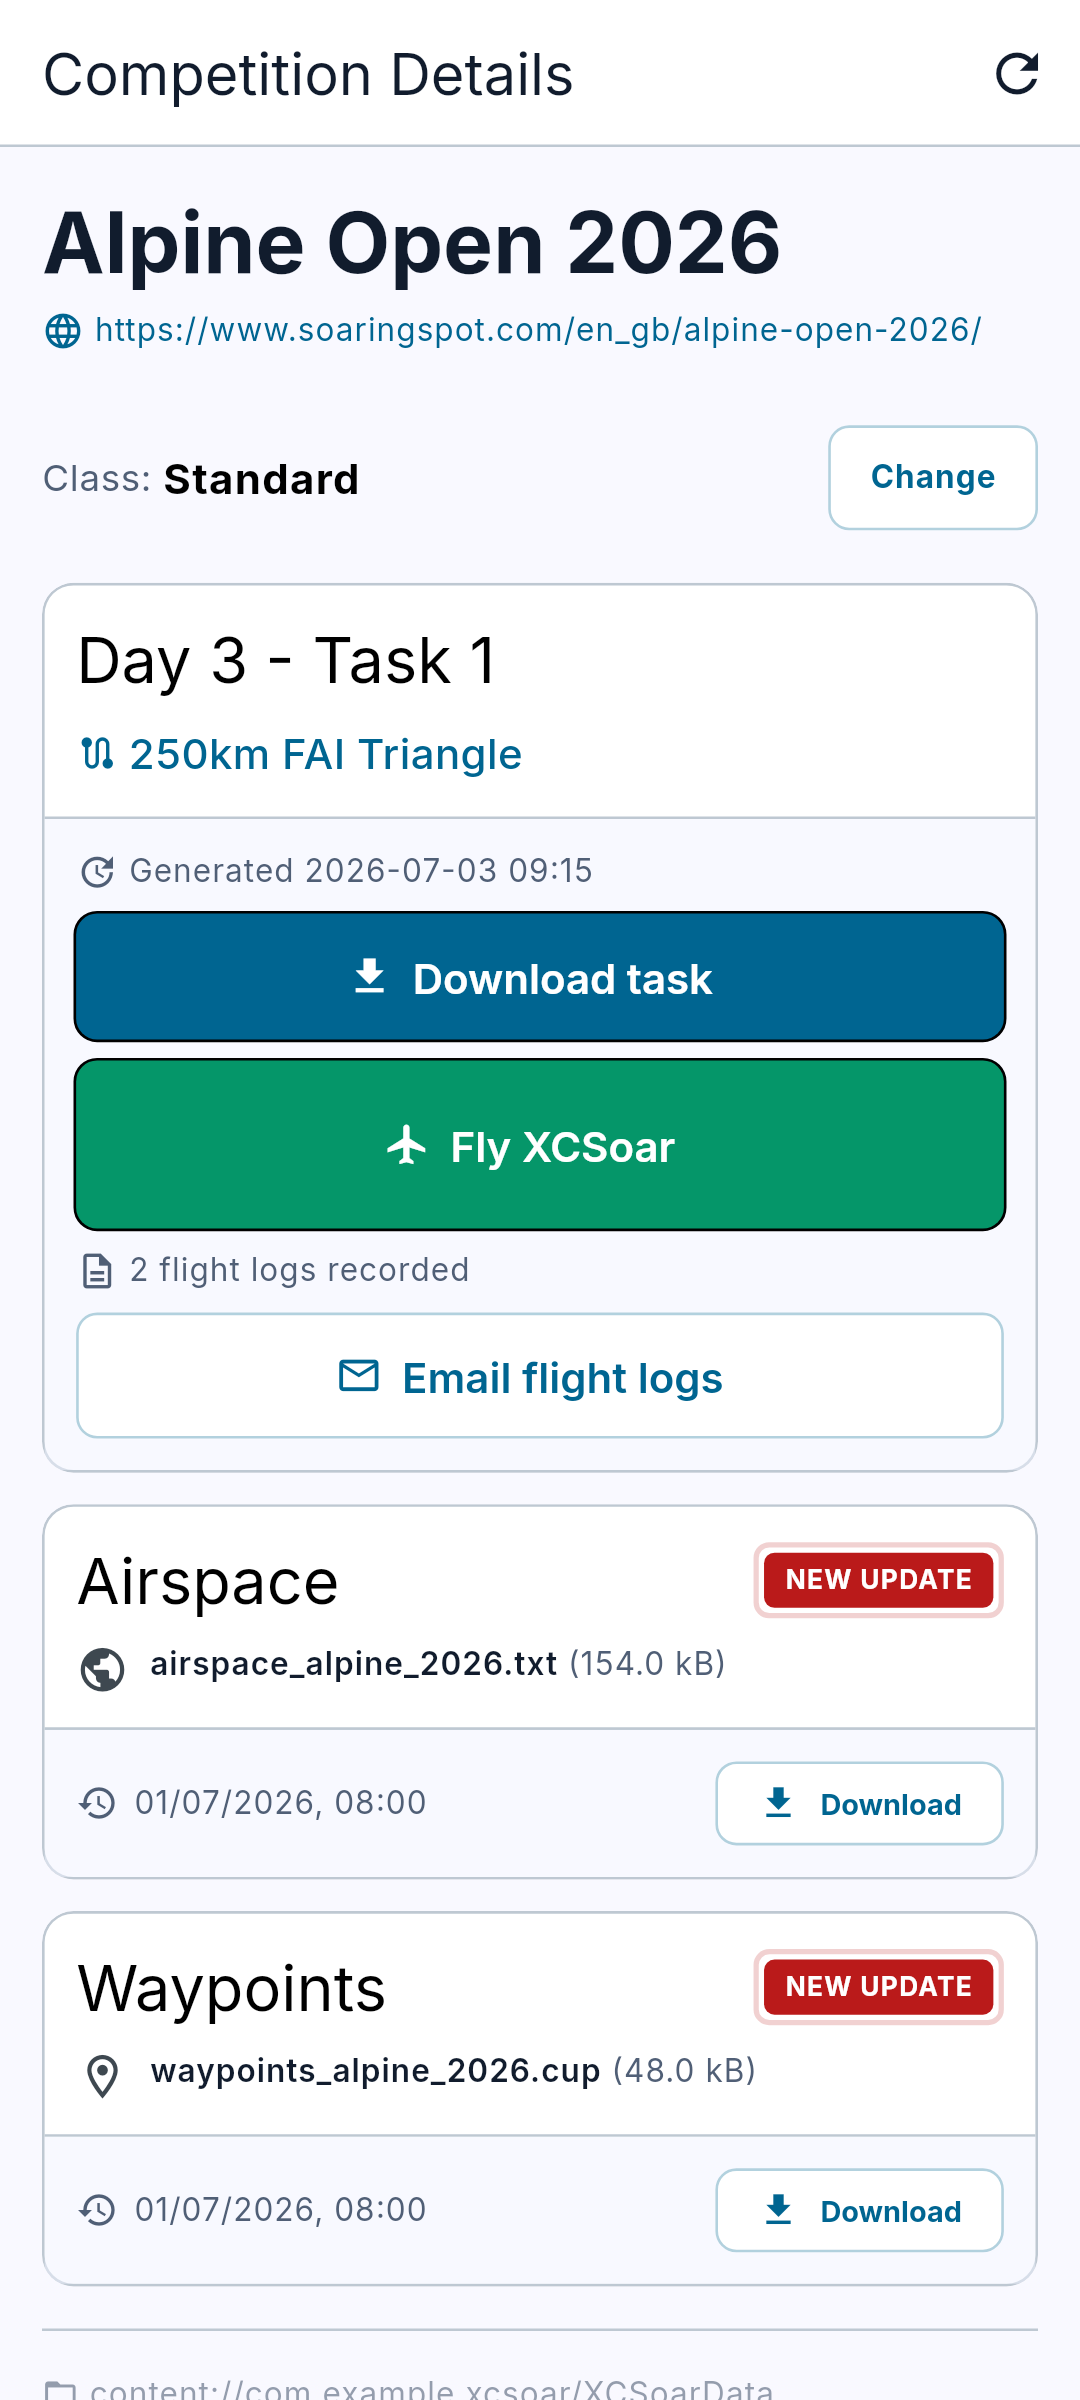
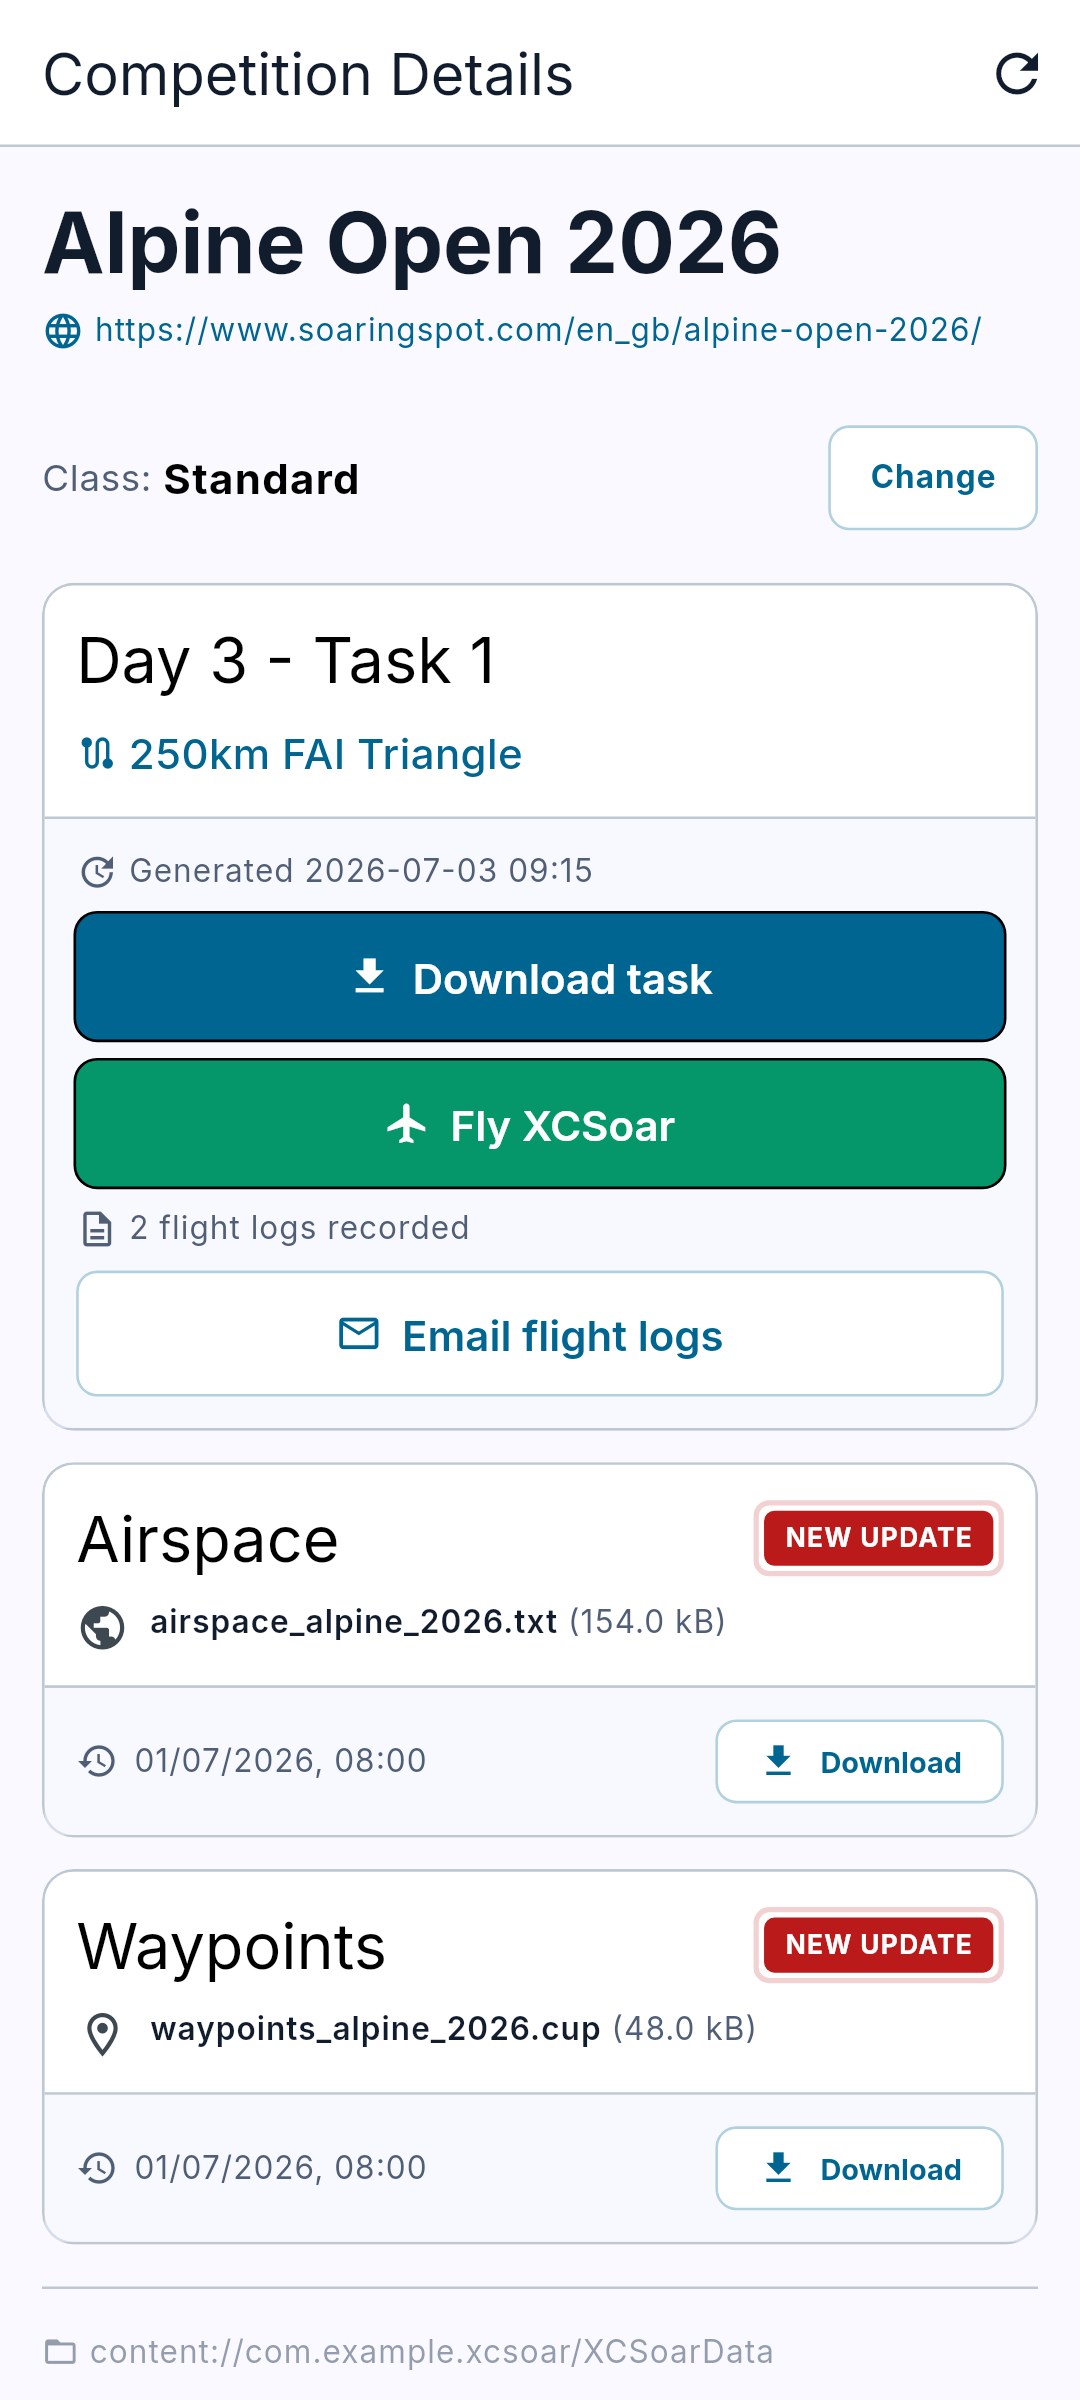
fix(ui): match Fly button height to other CTAs on Competition Detail
The success button style used a 64dp minimum height while the primary
and outlined full-width styles used 48dp, making "Fly" visibly taller
than "Download task" and "Email flight logs". Align on 48dp and update
the touch-target guideline accordingly.

Changed region(s): [[0.0306, 0.4375, 0.9472, 0.9375], [0.0306, 0.9688, 0.7333, 1.0], [0.6417, 0.9062, 0.6722, 0.9375]]

diff --git a/lib/core/theme/app_theme.dart b/lib/core/theme/app_theme.dart
@@ -118,13 +118,13 @@ abstract final class AppButtonStyles {
   }
 
   /// Success-coloured filled button — used for the full-width "Fly XCSoar"
-  /// CTA. Uses [AppColors.success] for background and 64dp minimum height,
-  /// per the full-width CTA touch-target rule in `docs/ui-guidelines.md`.
+  /// CTA. Uses [AppColors.success] for background, sized to match the other
+  /// full-width buttons ("Download task", "Email flight logs").
   static ButtonStyle success(BuildContext context) {
     return ElevatedButton.styleFrom(
       backgroundColor: context.appColors.success,
       foregroundColor: Theme.of(context).colorScheme.onPrimary,
-      minimumSize: const Size.fromHeight(64),
+      minimumSize: const Size.fromHeight(48),
       shape: RoundedRectangleBorder(borderRadius: BorderRadius.circular(8)),
       textStyle: const TextStyle(
         fontFamily: 'Inter',

diff --git a/docs/ui-guidelines.md b/docs/ui-guidelines.md
@@ -44,7 +44,7 @@ The app uses **Inter** as its primary typeface. Type scale and weights are defin
 This is the most critical dimension of the design.
 
 - **Minimum touch target: 48 × 48 dp** (Material baseline). Prefer 56 dp for primary actions.
-- Full-width action buttons (e.g. primary CTAs on detail screens) must be at least **64 dp tall**.
+- Full-width action buttons (e.g. primary CTAs on detail screens) must be at least **48 dp tall**, and all full-width buttons on the same screen must share a consistent height.
 - Icon buttons must be wrapped in a hit area of at least 48 × 48 dp — the icon itself (24 dp) is not a sufficient target.
 - `ListTile` rows are acceptable at their default height (56 dp). Do not reduce list row height.
 - Avoid placing two tappable elements within 8 dp of each other.
